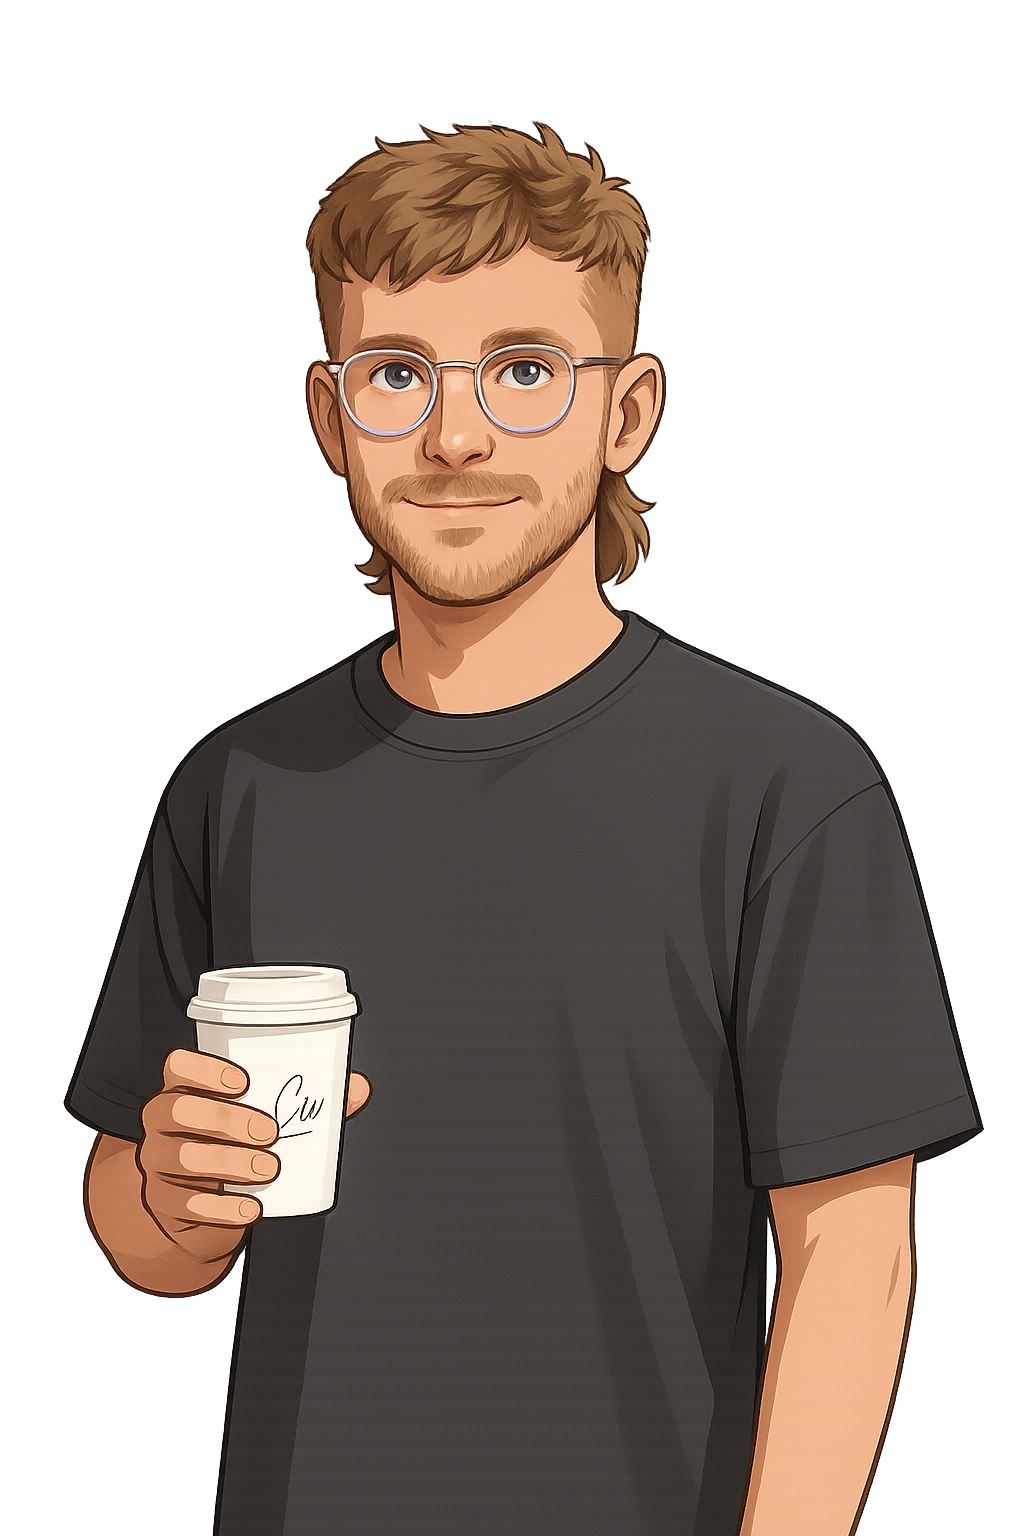
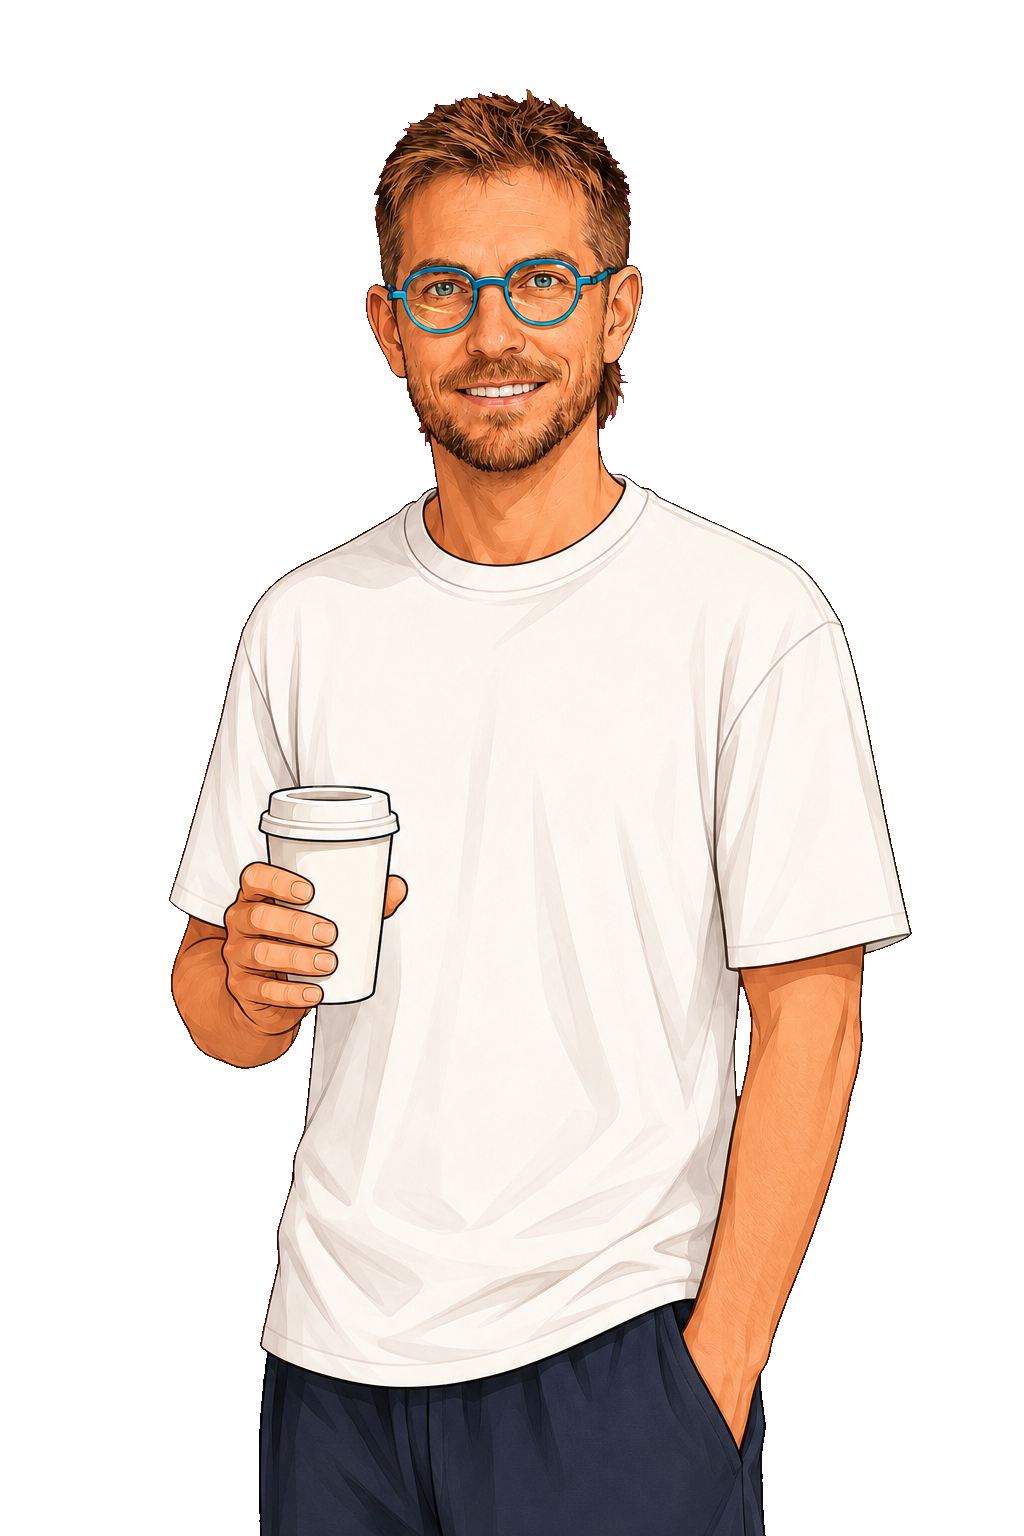
Update Roamless experience and portfolio portraits

diff --git a/src/content/project/roamless.md b/src/content/project/roamless.md
@@ -1,0 +1,67 @@
+---
+title: "Roamless"
+description: "One app for global connectivity across 200+ destinations, with a single eSIM, mobile data, phone numbers, international calls, and SMS."
+headerImage: "/assets/images/projects/roamless.jpg"
+cardImage: "/assets/images/projects/roamless-card.webp"
+date: "2026-02-01"
+---
+
+![Roamless — one app for global connectivity](/assets/images/projects/roamless.jpg)
+
+*One app for global connectivity: eSIM, mobile data, phone numbers, international calls, and SMS.*
+
+> I joined **Roamless in February 2026 as a Senior iOS Engineer**, just as the team was preparing a major new release.
+>
+> This is the story so far — joining during a rebrand, helping the team adopt AI, automating delivery, introducing experimentation, and later becoming **App Squad Lead**. Throughout, the purpose has stayed the same: helping people stay connected.
+
+## Joining Ahead of Roamless 2.0
+
+When I arrived, the company was about to release **Roamless 2.0**. It brought **SMS and messaging within the app**, alongside a **rebrand and a visual refresh** of the experience.
+
+It was a significant moment to join: the product was expanding the ways people could stay in touch, while the team was preparing to put a new identity in front of users. Roamless’s mission to help people stay connected gave that work a clear purpose, reaching beyond connectivity for travel alone.
+
+<div style="display:flex; gap:12px; align-items:flex-start; flex-wrap:wrap;">
+  <img src="/assets/images/projects/roamless/global-numbers.jpg" alt="Roamless international phone numbers" style="width:210px; border-radius:16px; box-shadow:0 2px 16px #0001;" />
+  <img src="/assets/images/projects/roamless/in-app-calls.jpg" alt="Roamless international in-app calls" style="width:210px; border-radius:16px; box-shadow:0 2px 16px #0001;" />
+  <img src="/assets/images/projects/roamless/roamless-to-roamless.jpg" alt="Free calls and messages between Roamless users" style="width:210px; border-radius:16px; box-shadow:0 2px 16px #0001;" />
+</div>
+
+*Public Roamless product imagery from the App Store.*
+
+## Bringing AI into the Engineering Workflow
+
+After the release, I helped the team **introduce AI into its development workflow**. Alongside adopting the tools, I worked on making the app’s development setup suitable for that integration, with **safeguards to keep sensitive information out of reach of AI tools**.
+
+For me, adopting a new tool means thinking about how it fits into the team’s everyday work and what it can access. Protecting sensitive information was part of making AI useful in practice.
+
+## Moving from Manual Delivery to Xcode Cloud
+
+The iOS delivery process was **entirely manual** when I joined. That made automation another clear opportunity to improve how we worked.
+
+I introduced **Xcode Cloud for CI/CD**, helping automate the work involved in getting the app ready for delivery. It was a practical investment in the team’s foundations: making a repeated engineering task more consistent and reducing the manual effort around shipping.
+
+## Creating Room for Experimentation
+
+Alongside delivery automation, I introduced **feature flags and A/B testing** so the team could run product experiments.
+
+This gave us a way to explore different approaches and learn from how people use the app. It connected the engineering work to a question that matters for the product: are the changes we make actually helping users?
+
+## Becoming App Squad Lead
+
+I was later **promoted to App Squad Lead**, expanding my role from iOS engineering to helping product and the **Android and iOS engineers** deliver together.
+
+My focus now includes helping the squad deliver quality features that make it easier for users to find **the data roaming plan most suited to their needs**. That specific challenge sits within Roamless’s broader mission: helping people stay connected.
+
+It brings together the parts of engineering I care about — understanding the user’s needs, working closely with product, and making pragmatic technical decisions that help the team deliver. The workflow improvements, automation, and experimentation all support that shared purpose.
+
+<div style="display:flex; gap:12px; align-items:flex-start; flex-wrap:wrap;">
+  <img src="/assets/images/projects/roamless/global-esim.jpg" alt="Roamless global eSIM" style="width:210px; border-radius:16px; box-shadow:0 2px 16px #0001;" />
+  <img src="/assets/images/projects/roamless/data-plans.jpg" alt="Roamless data plans" style="width:210px; border-radius:16px; box-shadow:0 2px 16px #0001;" />
+  <img src="/assets/images/projects/roamless/connectivity.jpg" alt="Roamless global connectivity" style="width:210px; border-radius:16px; box-shadow:0 2px 16px #0001;" />
+</div>
+
+> **An ongoing chapter**
+>
+> From joining ahead of Roamless 2.0 to leading the app squad, my role has grown alongside the product. I’m looking forward to continuing that work with the team — building a product that helps people stay connected and improving the way we build it together.
+
+[Visit Roamless](https://roamless.com/) · [Download on the App Store](https://apps.apple.com/gb/app/roamless-esim-travel-internet/id6463200713)
